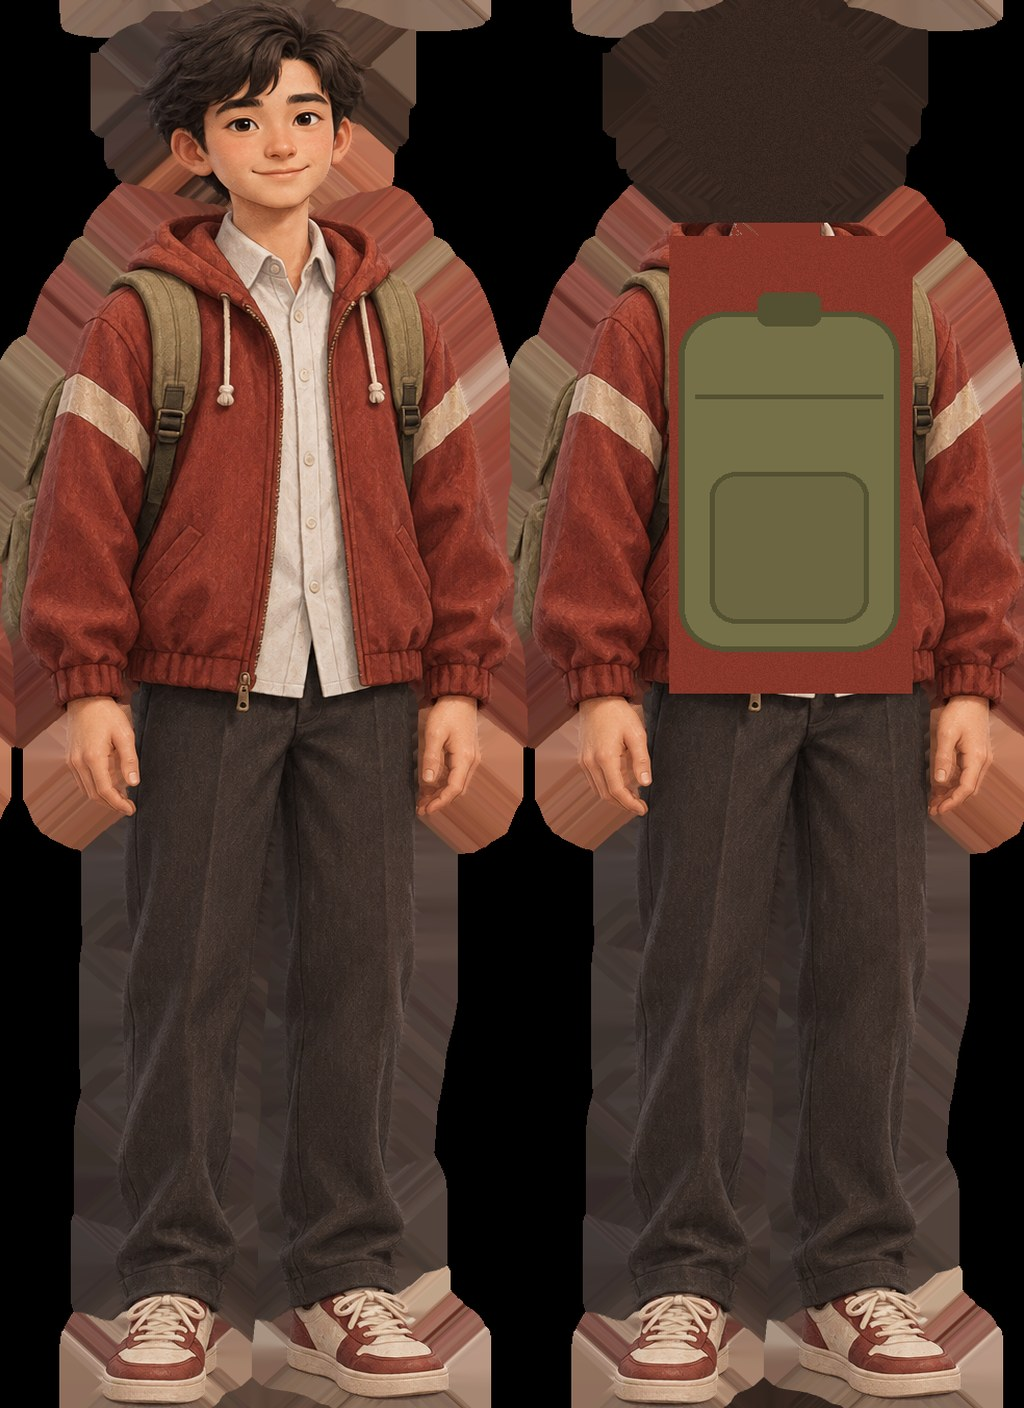
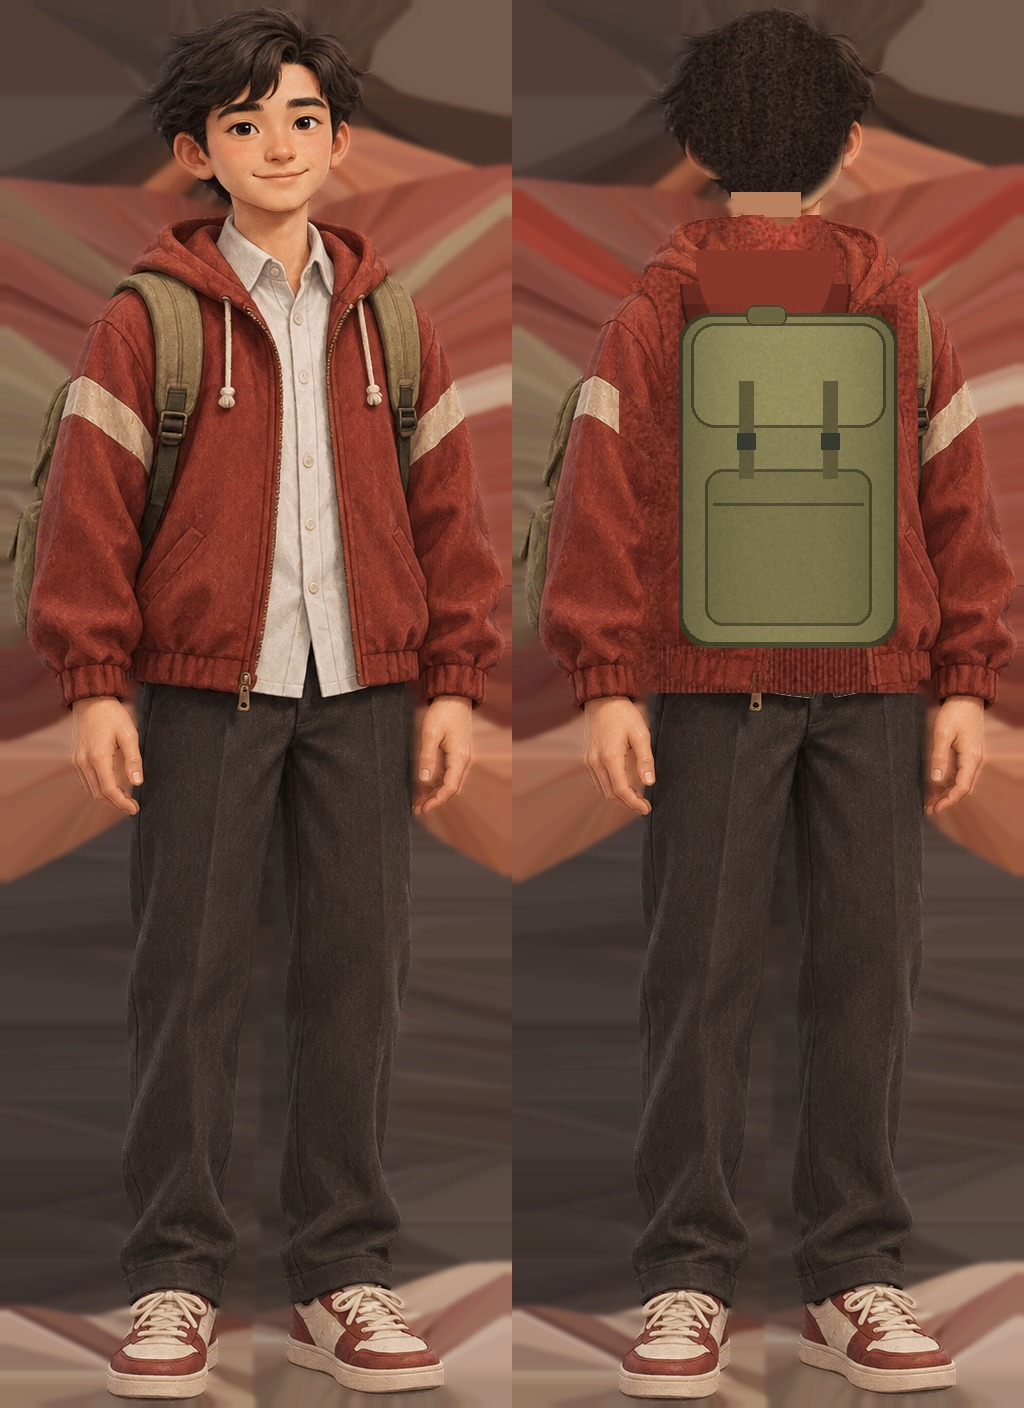
Nhân vật: dựng lại ảnh phủ từ tranh gốc (mặt trước sạch, mặt sau có gáy tóc, mũ trùm, lưng áo, ba lô có nắp và túi) và làm đều ánh sáng trên nhân vật để mặt và áo trong như tranh
Claude-Session: https://claude.ai/code/session_01AaSJ8YhNzdPXV8LNbJPZPT

diff --git a/index.html b/index.html
@@ -1122,6 +1122,15 @@ function buildSkinned(sc, img){
     if (!o.isSkinnedMesh) return;
     o.frustumCulled = false; o.castShadow = true;
     o.geometry.computeVertexNormals();                      /* pháp tuyến mượt trước khi tách đỉnh theo từng tam giác */
+    /* Mô hình dựng từ tranh nên bề mặt lồi lõm li ti: nếu chiếu sáng theo pháp tuyến thật, mặt và áo bị loang lổ, tối hơn tranh gốc.
+       Làm mượt pháp tuyến qua các đỉnh kề (4 lượt) rồi ngả về hướng thẳng đứng, để ánh sáng trên nhân vật đều và trong như tranh, vẫn sáng tối theo ngày đêm. */
+    { const ge0 = o.geometry, ix0 = ge0.index, na = ge0.attributes.normal;
+      if (ix0 && na){ const nvt = na.count, cur = new Float32Array(nvt * 3), acc = new Float32Array(nvt * 3), ia = ix0.array;
+        for (let v = 0; v < nvt; v++){ cur[v * 3] = na.getX(v); cur[v * 3 + 1] = na.getY(v); cur[v * 3 + 2] = na.getZ(v); }
+        for (let it = 0; it < 4; it++){ acc.set(cur);
+          for (let t = 0; t < ia.length; t += 3) for (let e = 0; e < 3; e++){ const a = ia[t + e], b = ia[t + (e + 1) % 3]; for (let c = 0; c < 3; c++){ acc[a * 3 + c] += cur[b * 3 + c]; acc[b * 3 + c] += cur[a * 3 + c]; } }
+          for (let v = 0; v < nvt; v++){ const x = acc[v * 3], y = acc[v * 3 + 1], z = acc[v * 3 + 2], l = Math.hypot(x, y, z) || 1; cur[v * 3] = x / l; cur[v * 3 + 1] = y / l; cur[v * 3 + 2] = z / l; } }
+        for (let v = 0; v < nvt; v++){ const x = cur[v * 3] * 0.42, y = cur[v * 3 + 1] * 0.42 + 0.8, z = cur[v * 3 + 2] * 0.42, l = Math.hypot(x, y, z) || 1; na.setXYZ(v, x / l, y / l, z / l); } } }
     /* tách đỉnh theo từng tam giác (tự làm, giữ nguyên kiểu dữ liệu và cờ normalized của trọng số xương) */
     const src = o.geometry, ix = src.index, N = ix ? ix.count : src.attributes.position.count, ge = new THREE.BufferGeometry(), GET = ['getX', 'getY', 'getZ', 'getW'];
     for (const k in src.attributes){

diff --git a/tools/nhan-vat/tex.py b/tools/nhan-vat/tex.py
@@ -1,0 +1,68 @@
+# Dựng lại ảnh phủ nhân vật character.jpg (1024×1408) từ tranh mặt trước của chủ dự án:
+#  nửa trái: mặt trước, khớp theo khung bao của mô hình, viền ngoài kéo màu mép ra để không lem nền;
+#  nửa phải: mặt sau dựng từ chính các điểm ảnh của tranh: gáy tóc, lưng áo đỏ có mũ trùm, ba lô vải ô liu có túi, nắp và dây, quần, gót giày.
+# Chạy: python3 tex.py <tranh.png có nền trong suốt> <character.jpg ra>
+import sys, numpy as np
+from PIL import Image, ImageDraw, ImageFilter
+from scipy import ndimage as ndi
+src = Image.open(sys.argv[1]).convert('RGBA'); A = np.array(src); al = A[:, :, 3] > 60; ys, xs = np.where(al)
+fig = src.crop((xs.min(), ys.min(), xs.max() + 1, ys.max() + 1))
+W, H = 1024, 1408; X0, X1 = 0.006 * W, 0.494 * W; Y0, Y1 = (1 - 0.997) * H, (1 - 0.003) * H; fw, fh = int(round(X1 - X0)), int(round(Y1 - Y0))
+fig = fig.resize((fw, fh), Image.LANCZOS); F = np.array(fig).astype(np.float32); rgb = F[:, :, :3]; m = F[:, :, 3] > 128
+rng = np.random.default_rng(7)
+def pad(rgb, m):                      # tô vùng ngoài hình bằng màu điểm ảnh gần nhất trong hình, rồi làm mềm riêng phần viền
+    idx = ndi.distance_transform_edt(~m, return_distances=False, return_indices=True); out = rgb[idx[0], idx[1]]
+    bl = np.stack([ndi.gaussian_filter(out[:, :, c], 2.5) for c in range(3)], 2); out[~m] = bl[~m]; return out
+r, g, b = rgb[:, :, 0], rgb[:, :, 1], rgb[:, :, 2]; yy, xx = np.mgrid[0:fh, 0:fw]; fy = yy / fh; fx = xx / fw
+red = (r > 85) & (g < 100) & (r > g * 1.55)
+# ---------------- mặt sau ----------------
+Bk = rgb.copy()
+def tex_like(mask_src, shape, blur=1.2):   # vân vải lấy từ chính điểm ảnh: nhiễu quanh màu trung bình, giữ độ lệch chuẩn
+    px = rgb[mask_src]; mu = px.mean(0); sd = px.std(0); n = ndi.gaussian_filter(rng.normal(size=shape), blur); n /= n.std() + 1e-6
+    return mu[None, None, :] + n[:, :, None] * sd[None, None, :] * 0.55
+# 1) đầu: thay mặt bằng tóc, giữ viền tóc và tai; gáy lộ một dải da cổ
+head = m & (fy < 0.150); hair_px = head & (r < 75) & (g < 65); skin = head & (r > 150) & (g > 100)
+hair = tex_like(hair_px, (fh, fw), 0.8); strand = ndi.gaussian_filter(rng.normal(size=(fh, fw)), (14, 1.6)); strand /= strand.std(); hair = hair * (1 + 0.07 * strand[:, :, None])
+cxh = xs_mid = (np.where(head.any(0))[0].min() + np.where(head.any(0))[0].max()) / 2 / fw
+inner = ndi.binary_erosion(head, iterations=7); face = inner & (((fx - cxh) / 0.172) ** 2 + ((fy - 0.074) / 0.074) ** 2 < 1)        # lòng đầu, chừa viền tóc thật và hai tai
+shade = 0.82 + 0.3 * (1 - ((fx - cxh) / 0.13) ** 2).clip(0, 1) * (1 - (fy / 0.14)) ; soft = ndi.gaussian_filter(face.astype(np.float32), 4)[:, :, None]; Bk[:] = Bk * (1 - soft) + hair * shade[:, :, None] * soft
+nape = m & (fy >= 0.134) & (fy < 0.152) & (np.abs(fx - cxh) < 0.07); sk = rgb[skin].mean(0); Bk[nape] = sk * 0.88
+# 2) thân: lưng áo đỏ liền (bỏ sơ mi, khoá kéo, dây rút, quai ba lô phía trước)
+torso = m & (fy > 0.150) & (fy < 0.492) & (fx > 0.20) & (fx < 0.80)
+jk = tex_like(red & (fy > 0.3) & (fy < 0.45), (fh, fw), 1.0)
+lum = ndi.gaussian_filter(np.where(red, rgb.mean(2), 0), 14) / (ndi.gaussian_filter(red.astype(np.float32), 14) + 1e-3); lum = lum / (rgb[red].mean() + 1e-6)
+fillm = torso & ~red; Bk[fillm] = (jk * lum.clip(0.6, 1.35)[:, :, None])[fillm]
+hem = m & (fy > 0.458) & (fy < 0.492) & (fx > 0.28) & (fx < 0.72)                                   # bo gấu áo chạy ngang lưng
+rib = 0.86 + 0.14 * np.sign(np.sin(xx * 1.15)); Bk[hem & fillm] = (jk * 0.9 * rib[:, :, None])[hem & fillm]
+tail = m & (fy >= 0.492) & (fy < 0.56) & (r > 150) & (g > 140) & (fx > 0.32) & (fx < 0.68)                                    # vạt sơ mi thò dưới gấu: đổi thành quần
+pants_px = m & (fy > 0.6) & (fy < 0.85) & (r < 90); pt = tex_like(pants_px, (fh, fw), 0.9); Bk[tail] = pt[tail]
+# 3) mũ trùm rủ sau gáy
+img = Image.fromarray(pad(Bk, m).clip(0, 255).astype(np.uint8)); d = ImageDraw.Draw(img, 'RGBA'); jm = rgb[red].mean(0)
+col = lambda k: tuple(int(v) for v in (jm * k).clip(0, 255))
+cx = cxh * fw; hy0, hy1 = 0.150 * fh, 0.235 * fh
+d.pieslice([cx - 0.17 * fw, hy0 - 0.03 * fh, cx + 0.17 * fw, hy1 + 0.045 * fh], 0, 180, fill=col(0.80) + (255,))
+d.pieslice([cx - 0.14 * fw, hy0 - 0.045 * fh, cx + 0.14 * fw, hy1 + 0.012 * fh], 0, 180, fill=col(1.04) + (255,))
+d.arc([cx - 0.17 * fw, hy0 - 0.03 * fh, cx + 0.17 * fw, hy1 + 0.045 * fh], 0, 180, fill=col(0.6) + (255,), width=3)
+# 4) ba lô (trùng ô mà mã game dùng cho khối ba lô: fu 0.35..0.73, v 0.555..0.765)
+om = np.array([136.0, 128.0, 84.0])                      # màu vải ô liu của ba lô, lấy theo quai và thân ba lô trong tranh
+oc = lambda k: tuple(int(v) for v in (om * k).clip(0, 255))
+bx0, bx1 = 0.33 * fw, 0.75 * fw; by0, by1 = (1 - 0.775 - 0.003) / 0.994 * fh, (1 - 0.545 - 0.003) / 0.994 * fh
+d.rounded_rectangle([bx0 - 4, by0 - 4, bx1 + 4, by1 + 6], 30, fill=oc(0.55) + (255,))
+d.rounded_rectangle([bx0, by0, bx1, by1], 28, fill=oc(1.0) + (255,))
+d.rounded_rectangle([bx0 + 8, by0 + 6, bx1 - 8, by0 + (by1 - by0) * 0.34], 24, fill=oc(1.1) + (255,), outline=oc(0.62) + (255,), width=3)                  # nắp
+d.rounded_rectangle([cx - 20, by0 - 12, cx + 20, by0 + 8], 8, fill=oc(0.8) + (255,), outline=oc(0.55) + (255,), width=2)                                   # quai xách
+d.rounded_rectangle([bx0 + 22, by0 + (by1 - by0) * 0.47, bx1 - 22, by1 - 16], 18, fill=oc(0.9) + (255,), outline=oc(0.6) + (255,), width=3)               # túi trước
+d.line([bx0 + 30, by0 + (by1 - by0) * 0.58, bx1 - 30, by0 + (by1 - by0) * 0.58], fill=oc(0.6) + (255,), width=3)
+for sx in (bx0 + (bx1 - bx0) * 0.3, bx0 + (bx1 - bx0) * 0.7):                                                                                             # hai dây khoá nắp
+    d.rectangle([sx - 7, by0 + (by1 - by0) * 0.2, sx + 7, by0 + (by1 - by0) * 0.5], fill=oc(0.72) + (255,)); d.rectangle([sx - 9, by0 + (by1 - by0) * 0.36, sx + 9, by0 + (by1 - by0) * 0.41], fill=(58, 60, 50, 255))
+back = np.array(img).astype(np.float32)
+bm = np.zeros((fh, fw), bool); bm[int(by0) - 12:int(by1) + 6, int(bx0) - 4:int(bx1) + 4] = True
+fab = ndi.gaussian_filter(rng.normal(size=(fh, fw)), 0.8); back[bm] *= (1 + 0.05 * fab[bm])[:, None]
+gx = (1 - 0.22 * (np.abs(xx - (bx0 + bx1) / 2) / ((bx1 - bx0) / 2)) ** 2.5).clip(0.7, 1); back[bm] *= gx[bm][:, None]
+front = pad(rgb, m)
+out = np.zeros((H, W, 3), np.float32); ox, oy = int(round(X0)), int(round(Y0))
+for half, im in ((0, front), (W // 2, back)):
+    canvas = np.zeros((H, W // 2, 3), np.float32); canvas[oy:oy + fh, ox:ox + fw] = im
+    msk = np.zeros((H, W // 2), bool); msk[oy:oy + fh, ox:ox + fw] = True; idx = ndi.distance_transform_edt(~msk, return_distances=False, return_indices=True); canvas = canvas[idx[0], idx[1]]
+    out[:, half:half + W // 2] = canvas
+Image.fromarray(out.clip(0, 255).astype(np.uint8)).save(sys.argv[2], quality=92, optimize=True); print('ghi', sys.argv[2])
